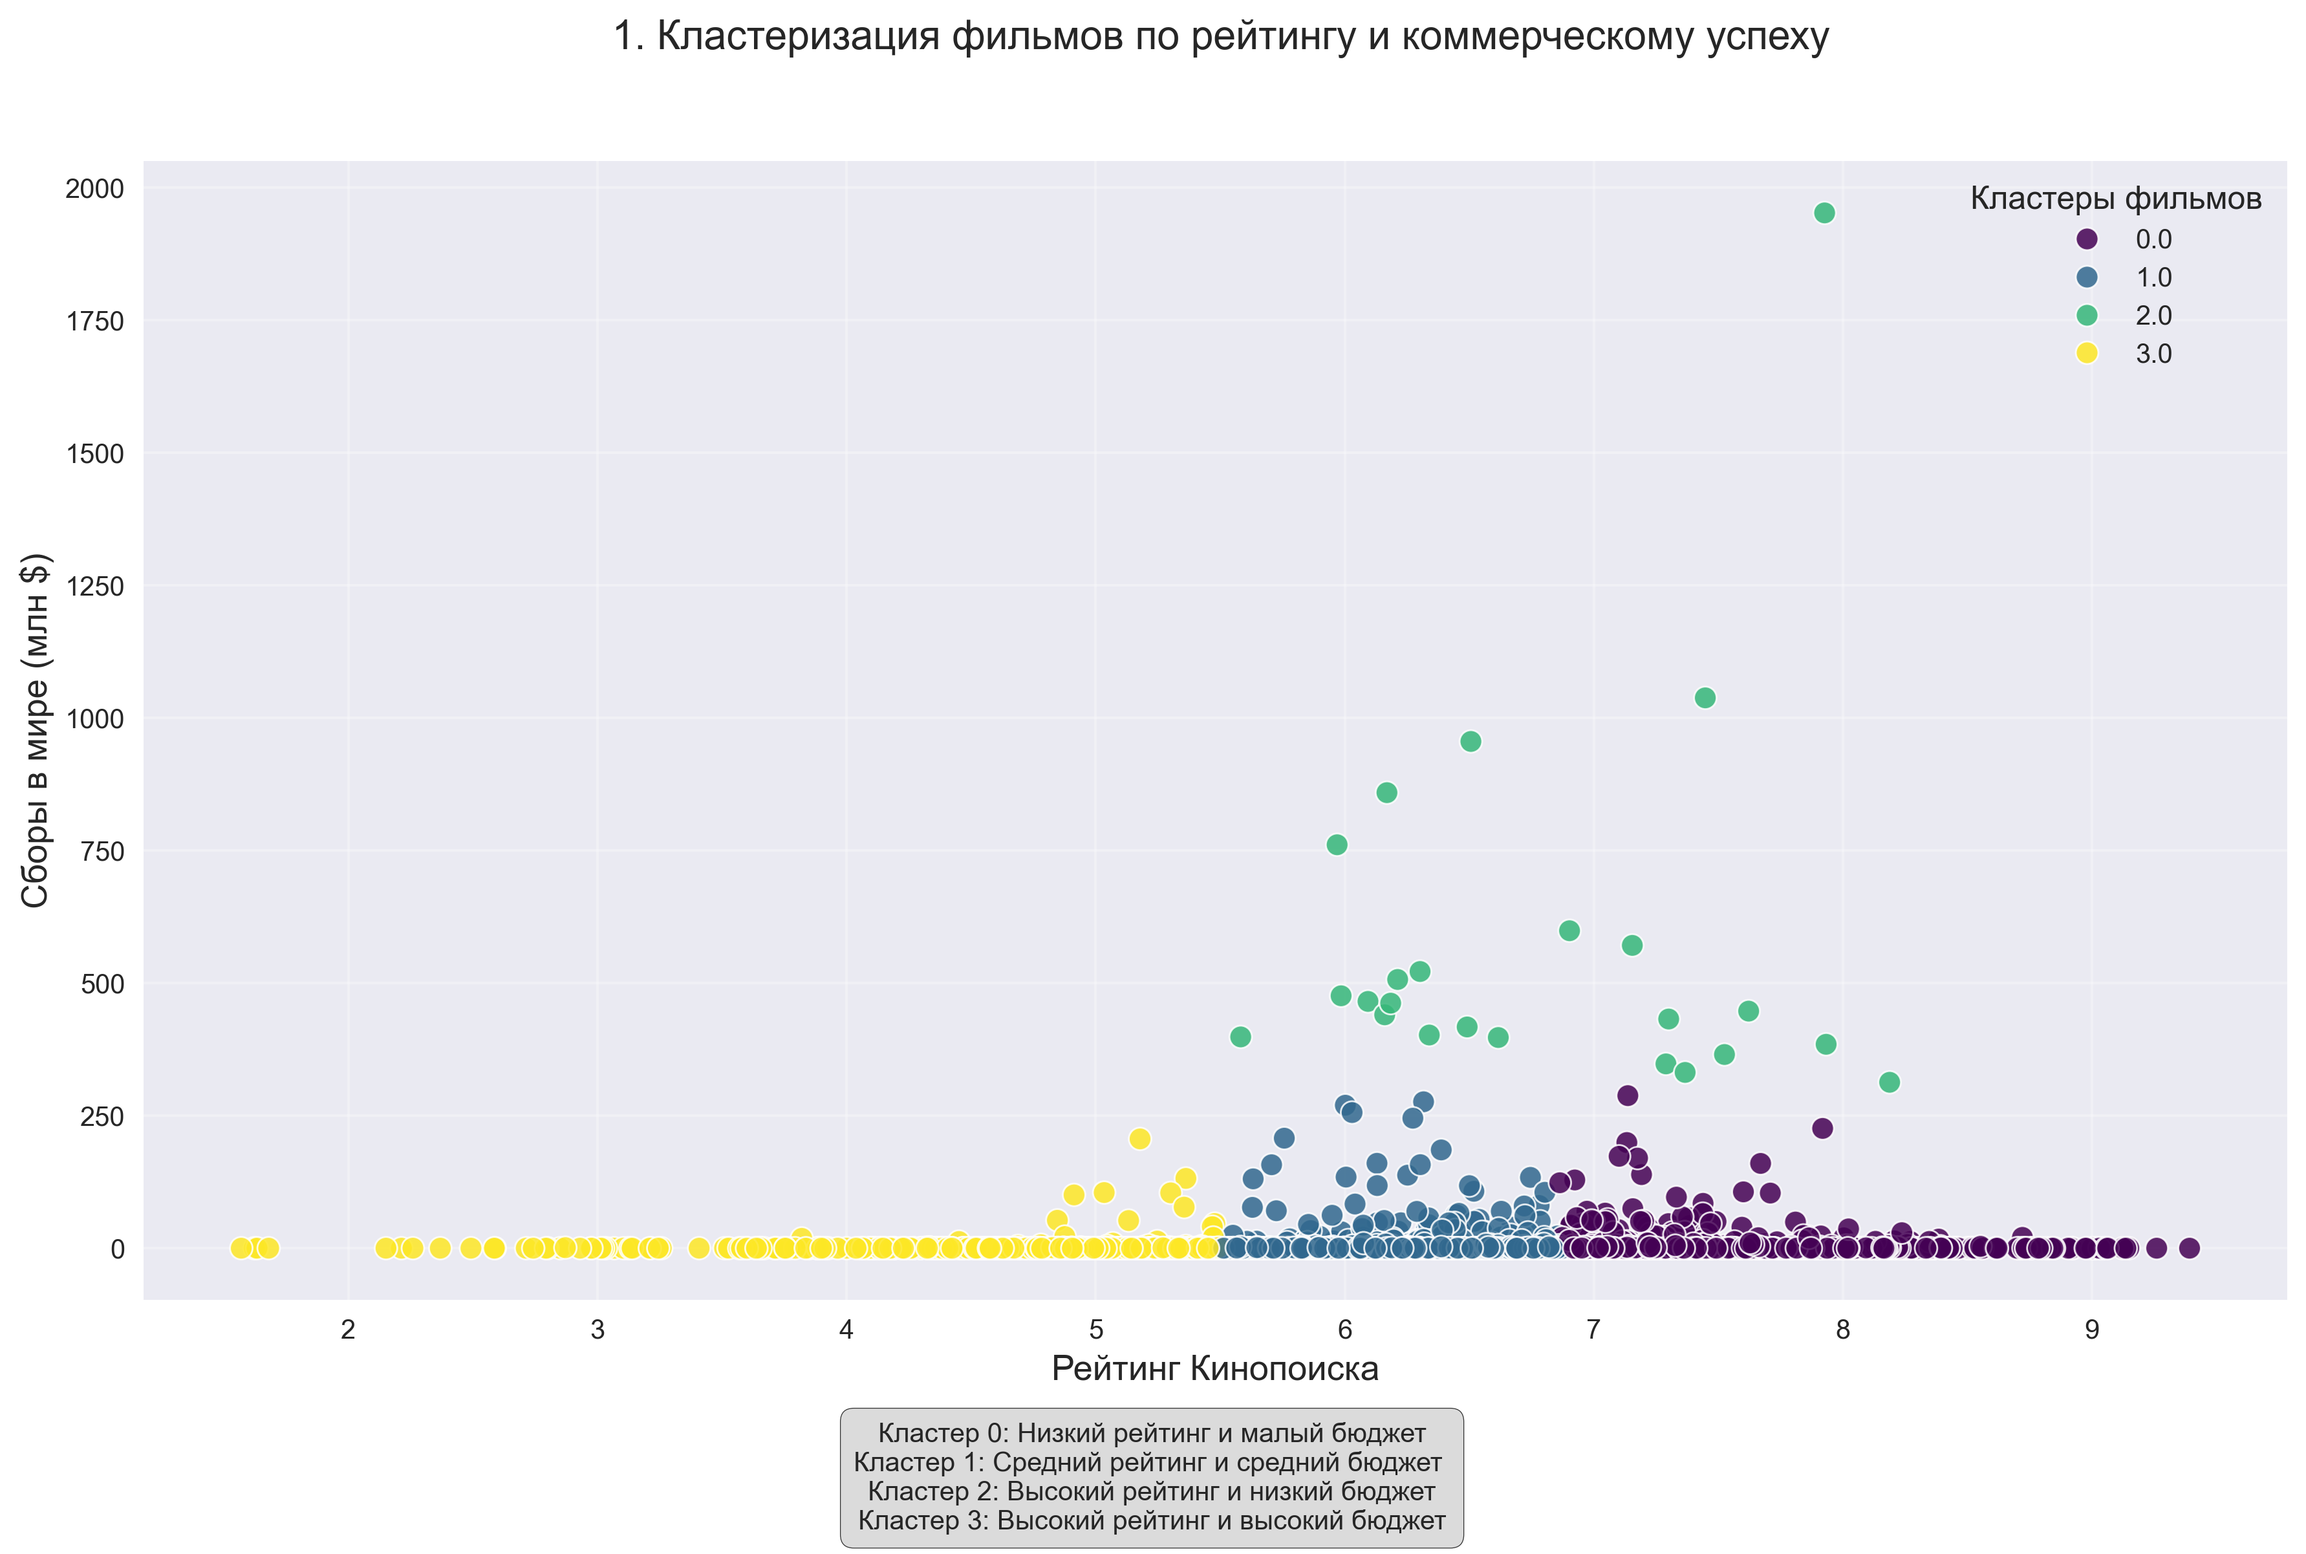
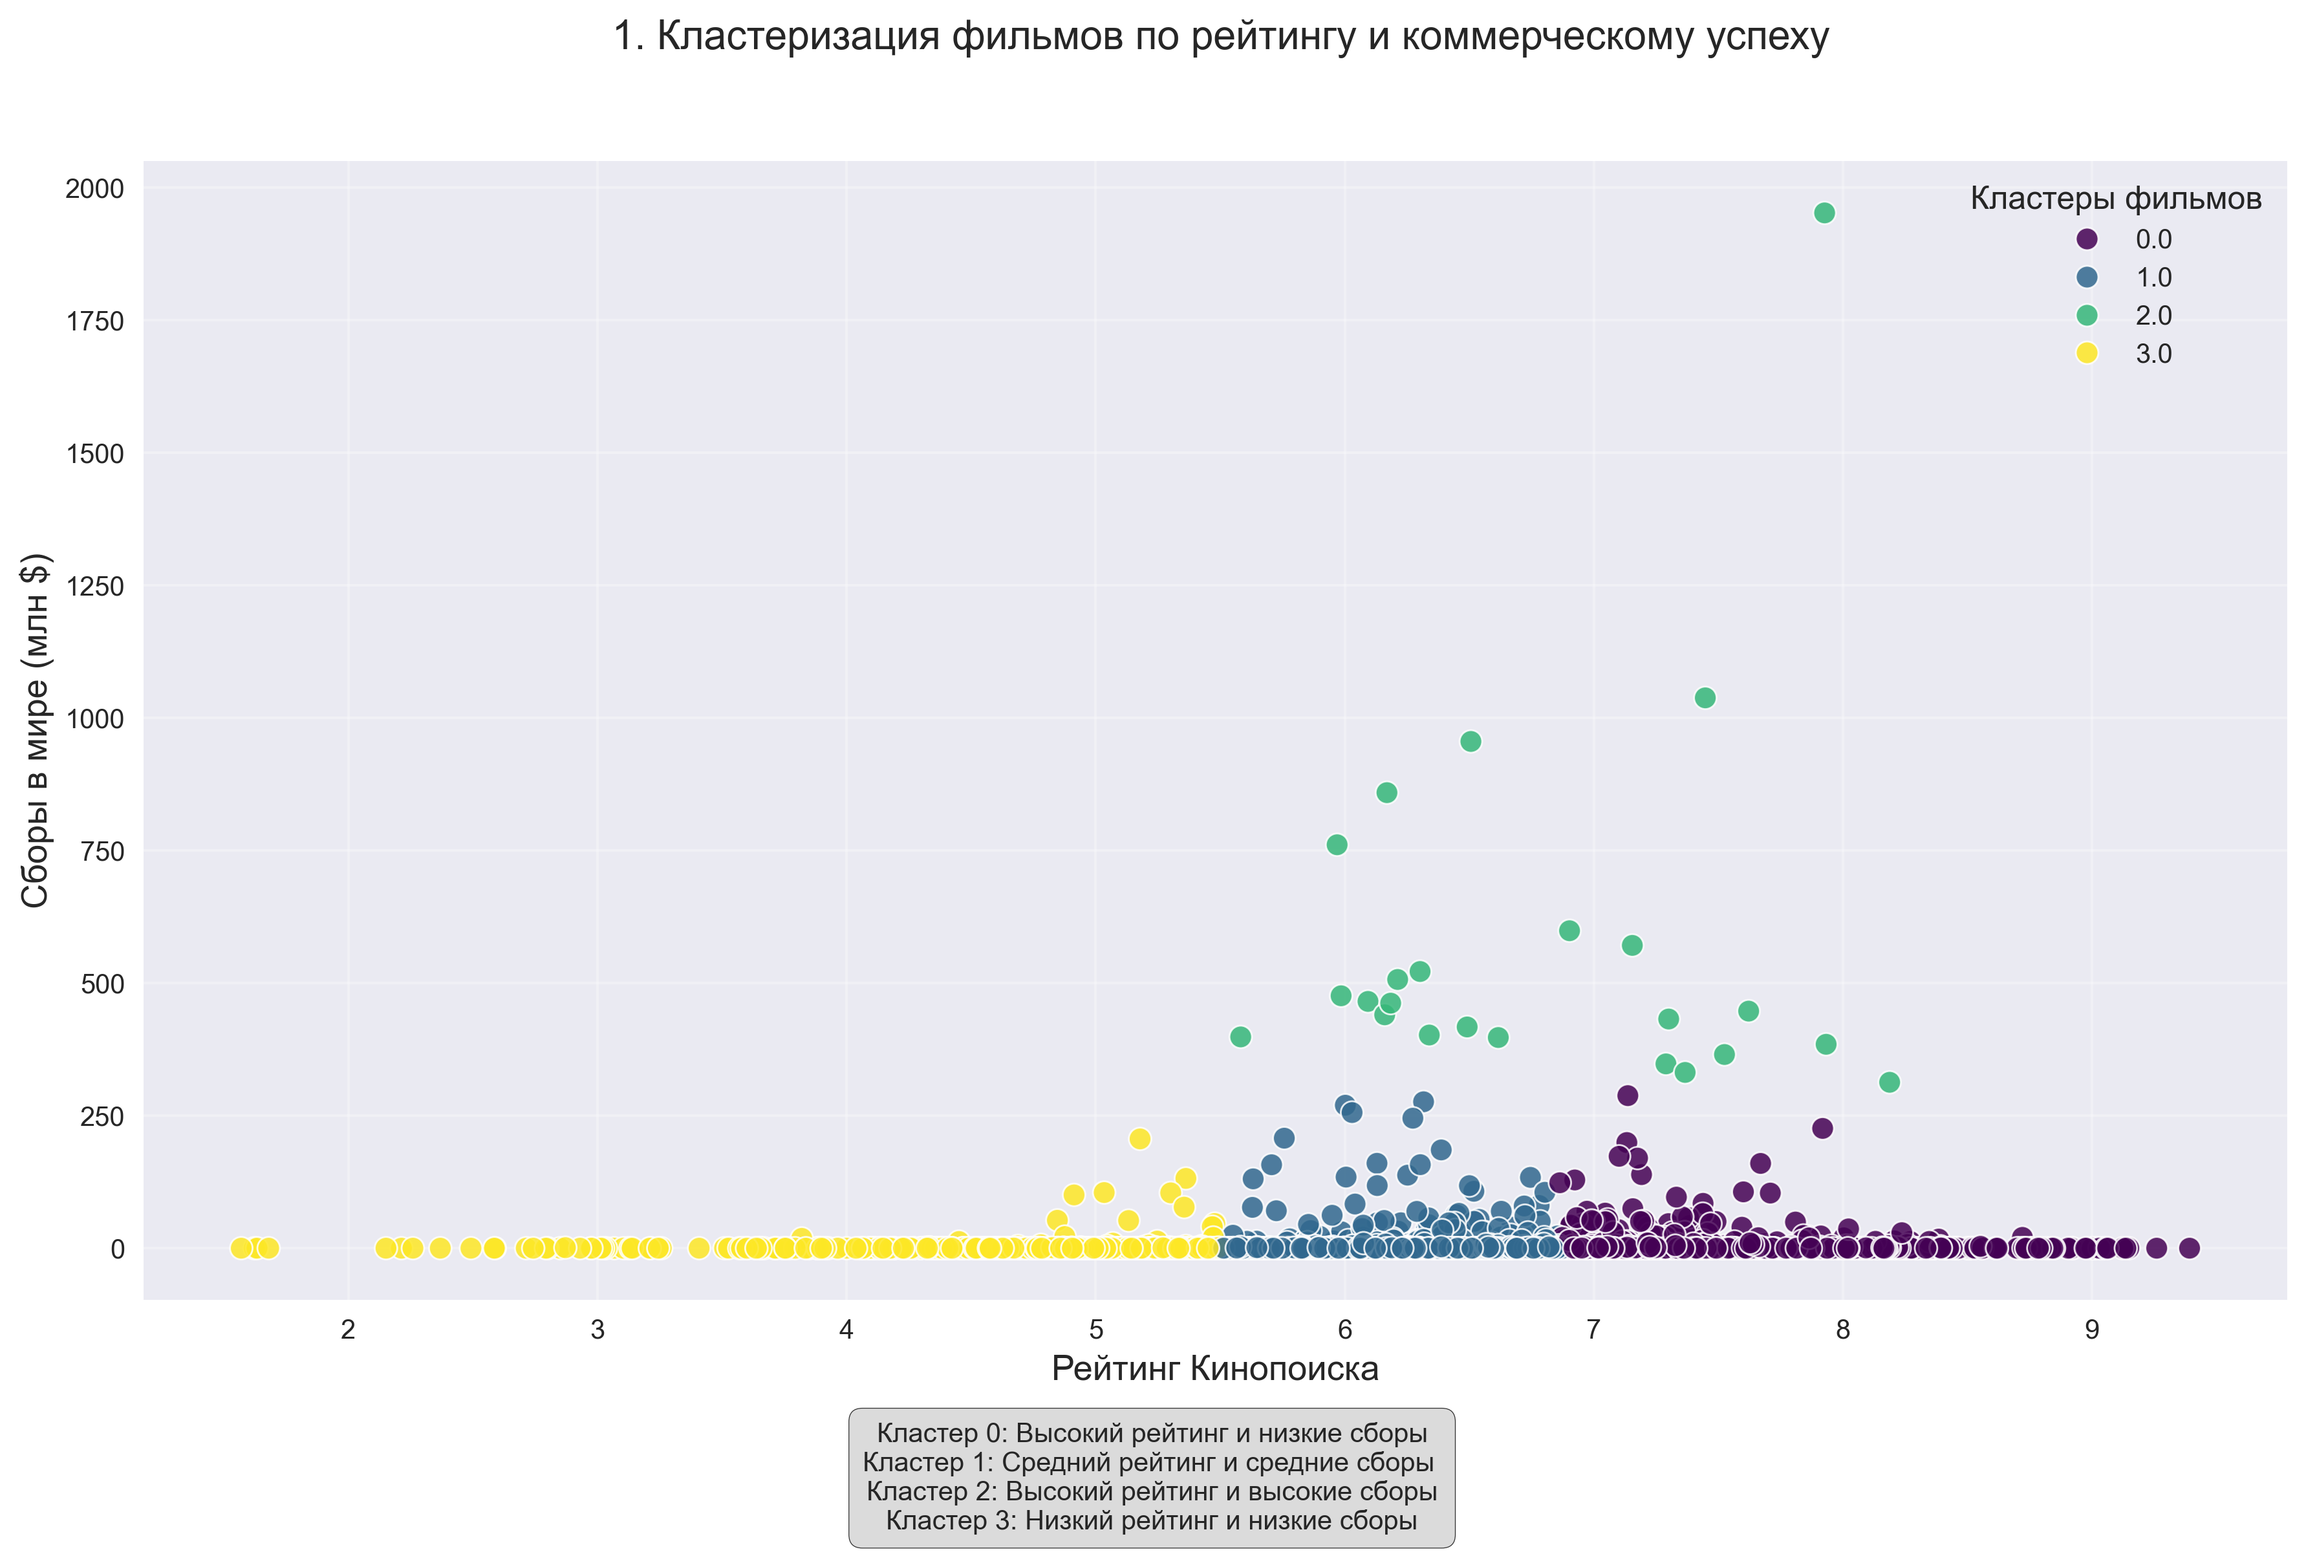
work on distribution

Changed region(s): [[0.3424, 0.9051, 0.6537, 0.9988]]

diff --git a/main.py b/main.py
@@ -1,0 +1,149 @@
+import os
+import subprocess
+import sys
+from dotenv import load_dotenv, dotenv_values, set_key
+
+
+def get_env_path():
+    base_path = os.path.dirname(os.path.abspath(__file__))
+    env_path = os.path.join(base_path, ".env")
+    return env_path, base_path
+
+env_path, base_path = get_env_path()
+load_dotenv(env_path)
+
+def save_and_reload():
+    global env_path
+    for key in list(os.environ.keys()):
+        if key.startswith('X-API-KEY'):
+            os.environ.pop(key, None)
+    load_dotenv(env_path, override=True)
+
+def clear_screen():
+    os.system('cls' if os.name == 'nt' else 'clear')
+
+def mask_key(key):
+    if not key or len(key) < 8:
+        return "***"
+    return key[:4] + "*" * (len(key) - 8) + key[-4:]
+
+def get_api_keys():
+    keys = []
+    i = 0
+    while True:
+        key = os.getenv(f'X-API-KEY{i}')
+        if key is None:
+            break
+        keys.append(key)
+        i += 1
+    return keys
+
+def manage_keys():
+    while True:
+        clear_screen()
+        print("=== Управление API ключами ===\n")
+        keys = get_api_keys()
+        if keys:
+            print("Добавленные ключи:")
+            for i, k in enumerate(keys):
+                print(f"{i + 1}. {mask_key(k)}")
+        else:
+            print("Нет добавленных ключей.")
+        print("\n1. Добавить ключ")
+        print("2. Удалить ключ")
+        print("3. Назад")
+        choice = input("\nВыберите действие: ").strip()
+        if choice == "1":
+            values = dotenv_values(env_path)
+            new_key = input("Введите новый API-ключ: ").strip()
+            if new_key not in values.values():
+                set_key(env_path, f'X-API-KEY{len(keys)}', new_key)
+                save_and_reload()
+                print("Ключ добавлен!")
+                save_and_reload()
+            else:
+                print('Такой ключ уже есть')
+        elif choice == "2":
+            if not keys:
+                input("Нет ключей для удаления...")
+                continue
+            try:
+                num = int(input("Введите номер ключа для удаления: ")) - 1
+                if 0 <= num < len(keys):
+                    values = dotenv_values(env_path)
+                    with open(env_path, 'w', encoding='utf-8') as f:
+                        new_idx = 0
+                        for key, value in values.items():
+                            if key.startswith('X-API-KEY'):
+                                try:
+                                    k_idx = int(key.replace('X-API-KEY', ''))
+                                    if k_idx != num:
+                                        f.write(f'X-API-KEY{new_idx}={value}\n')
+                                        new_idx += 1
+                                except:
+                                    f.write(f'{key}={value}\n')
+                            else:
+                                f.write(f'{key}={value}\n')
+                    print("Ключ удалён.")
+                    save_and_reload()
+                else:
+                    print("Неверный номер!")
+            except:
+                print("Ошибка ввода!")
+        elif choice == "3":
+            break
+        else:
+            print("Неверный выбор!")
+        input("\nНажмите Enter для продолжения...")
+
+def run_script(script_name: str, folder: str):
+    script_path = os.path.join(base_path, folder, script_name)
+
+    print(f"Попытка запуска: {script_path}")
+
+    if not os.path.exists(script_path):
+        print(f"Ошибка: Файл не найден!\n{script_path}")
+        print(f"Текущая папка: {base_path}")
+        input("\nНажмите Enter...")
+        return
+
+    try:
+        result = subprocess.run(
+            [sys.executable, script_path],
+            cwd=os.path.join(base_path, folder),  # Важно!
+            check=False,
+            capture_output=False,
+            text=True
+        )
+        if result.returncode != 0:
+            print(f"Скрипт завершился с кодом {result.returncode}")
+    except Exception as e:
+        print(f" Критическая ошибка запуска: {e}")
+
+    input("\nНажмите Enter для возврата в меню...")
+
+def main_menu():
+    while True:
+        clear_screen()
+        print("===== Kinopoisk Analyzer =====\n")
+        print("1. Управление API ключами")
+        print("2. Сбор данных")
+        print("3. Анализ данных")
+        print("4. Выход")
+        choice = input("\nВыберите действие: ").strip()
+        if choice == "1":
+            manage_keys()
+        elif choice == "2":
+            print("Запуск сбора данных...\n")
+            run_script('api.py', 'api')
+        elif choice == "3":
+            print("Запуск анализа...\n")
+            run_script('analyze.py', 'analyze')
+        elif choice == "4":
+            print("До свидания!")
+            break
+        else:
+            print("Неверный выбор!")
+
+if __name__ == "__main__":
+    main_menu()

diff --git a/api/api.py b/api/api.py
@@ -3,10 +3,26 @@ import json
 import time
 import os
 from dotenv import load_dotenv
+from tqdm import tqdm
 
 load_dotenv()
+os.chdir(os.path.dirname(os.path.dirname(os.path.abspath(__file__))))
+api_keys = []
+i = 0
+while True:
+    key = os.getenv(f'X-API-KEY{i}')
+    if key is None:
+        break
+    api_keys.append(key)
+    i += 1
+
+if not api_keys:
+    raise ValueError("Не найдено ни одного API-ключа")
+
+print(f"Найдено {len(api_keys)} API-ключей")
+
 headers = {
-    'X-API-KEY': os.getenv('X-API-KEY0')
+    'X-API-KEY': api_keys[0]
 }
 params = {
     'type': 'movie',
@@ -16,7 +32,7 @@ params = {
     'next': ''
 }
 
-def get_data(next_token, films, headers, params):
+def get_data(next_token, films, headers, params, inner_pbar):
     global success
     films = films
     while next_token:
@@ -29,6 +45,7 @@ def get_data(next_token, films, headers, params):
             films.append(meta_data_i["docs"])
             next_token = meta_data_i["next"]
             success += 1
+            inner_pbar.update(1)
             time.sleep(1)
 
         except requests.exceptions.HTTPError as e:
@@ -48,12 +65,19 @@ films = []
 films.extend(meta_data['docs'])
 next_token = meta_data["next"]
 
-key_count = sum(1 for line in open('.env', 'r'))
-for key in range (key_count):
-    print(f'-----------\nКлюч №{key+1}')
-    films, next_token = get_data(next_token, films, headers, params)
-    print(f'Совершено запросов: {success}')
-    headers['X-API-KEY'] = os.getenv(f'X-API-KEY{key+1}')
+#key_count = sum(1 for line in open('.env', 'r'))
+with tqdm(total=len(api_keys), desc="Процесс выполнения", position=0) as global_pbar:
+    for idx,key in enumerate (api_keys):
+        print(f'\n{"-" * 40}\n')
+        print(f'Ключ №{idx + 1}/{len(api_keys)}')
+
+        with tqdm(desc=f"Ключ №{idx + 1}", position=1, leave=False) as inner_pbar:
+            films, next_token = get_data(next_token, films, headers, params, inner_pbar)
+        print(f'Совершено запросов: {success}')
+        global_pbar.update(1)
+
+        if idx < len(api_keys) - 1:
+            headers['X-API-KEY'] = os.getenv(f'X-API-KEY{idx+1}')
 
 with open(f"output/films_{success}.json", "w", encoding="utf-8") as f:
     json.dump(films, f, indent=4, ensure_ascii=False)

diff --git a/analyze/analyze.py b/analyze/analyze.py
@@ -1,3 +1,4 @@
+import sys
 import pandas as pd
 import json
 import matplotlib.pyplot as plt
@@ -9,8 +10,20 @@ from sklearn.preprocessing import StandardScaler
 from sklearn.model_selection import train_test_split
 from sklearn.linear_model import LinearRegression
 from sklearn.metrics import mean_squared_error, r2_score
+import glob
+import re
 
-json_path = '../api/output/films_316.json'
+
+base_path = os.path.dirname(os.path.dirname(os.path.abspath(__file__)))
+os.chdir(base_path)
+files = glob.iglob(f'{base_path}/api/output/films_*.json')
+
+def get_number(filename):
+    match = re.search(r'(\d+)\.json$', filename)
+    return int(match.group(1)) if match else -1
+
+largest_file = max(files, key=get_number)
+json_path = largest_file
 
 with open(json_path, 'r', encoding='utf-8') as f:
     raw_data = json.load(f)
@@ -113,10 +126,10 @@ if len(features) > 100:
     plt.legend(title='Кластеры фильмов', title_fontsize=12)
     plt.grid(True, alpha=0.3)
 
-    description = "Кластер 0: Низкий рейтинг и малый бюджет\n" \
-                  "Кластер 1: Средний рейтинг и средний бюджет \n" \
-                  "Кластер 2: Высокий рейтинг и низкий бюджет\n" \
-                  "Кластер 3: Высокий рейтинг и высокий бюджет"
+    description = "Кластер 0: Высокий рейтинг и низкие сборы\n" \
+                  "Кластер 1: Средний рейтинг и средние сборы \n" \
+                  "Кластер 2: Высокий рейтинг и высокие сборы\n" \
+                  "Кластер 3: Низкий рейтинг и низкие сборы"
     plt.figtext(0.5, 0.01, description, ha='center', fontsize=10,
                 bbox=dict(boxstyle="round,pad=0.5", facecolor="lightgray", alpha=0.8))
 
